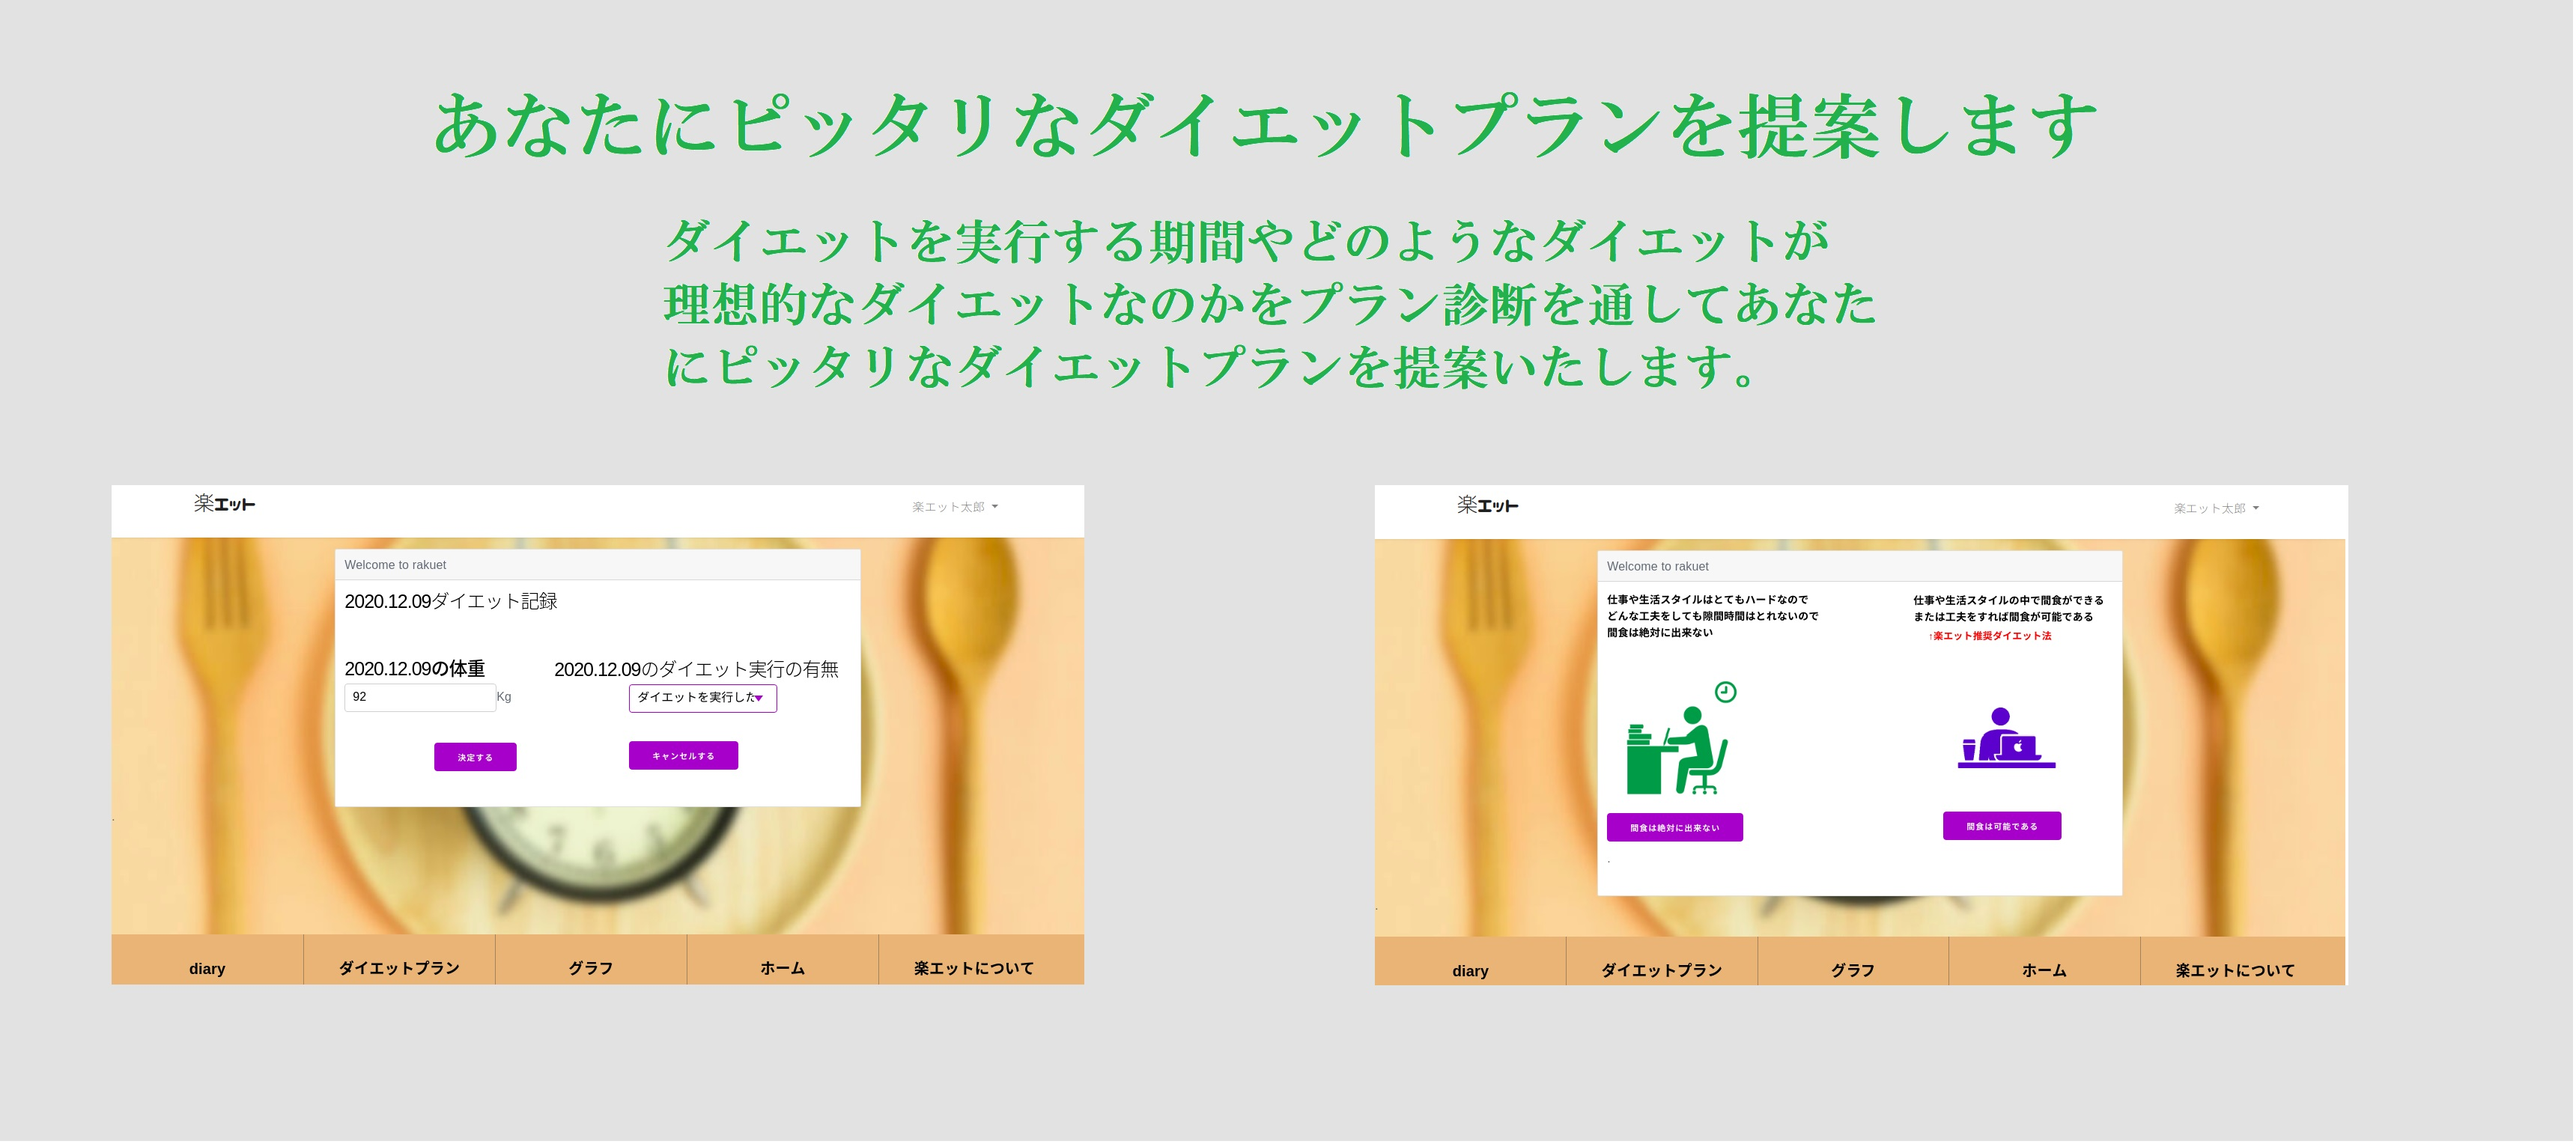
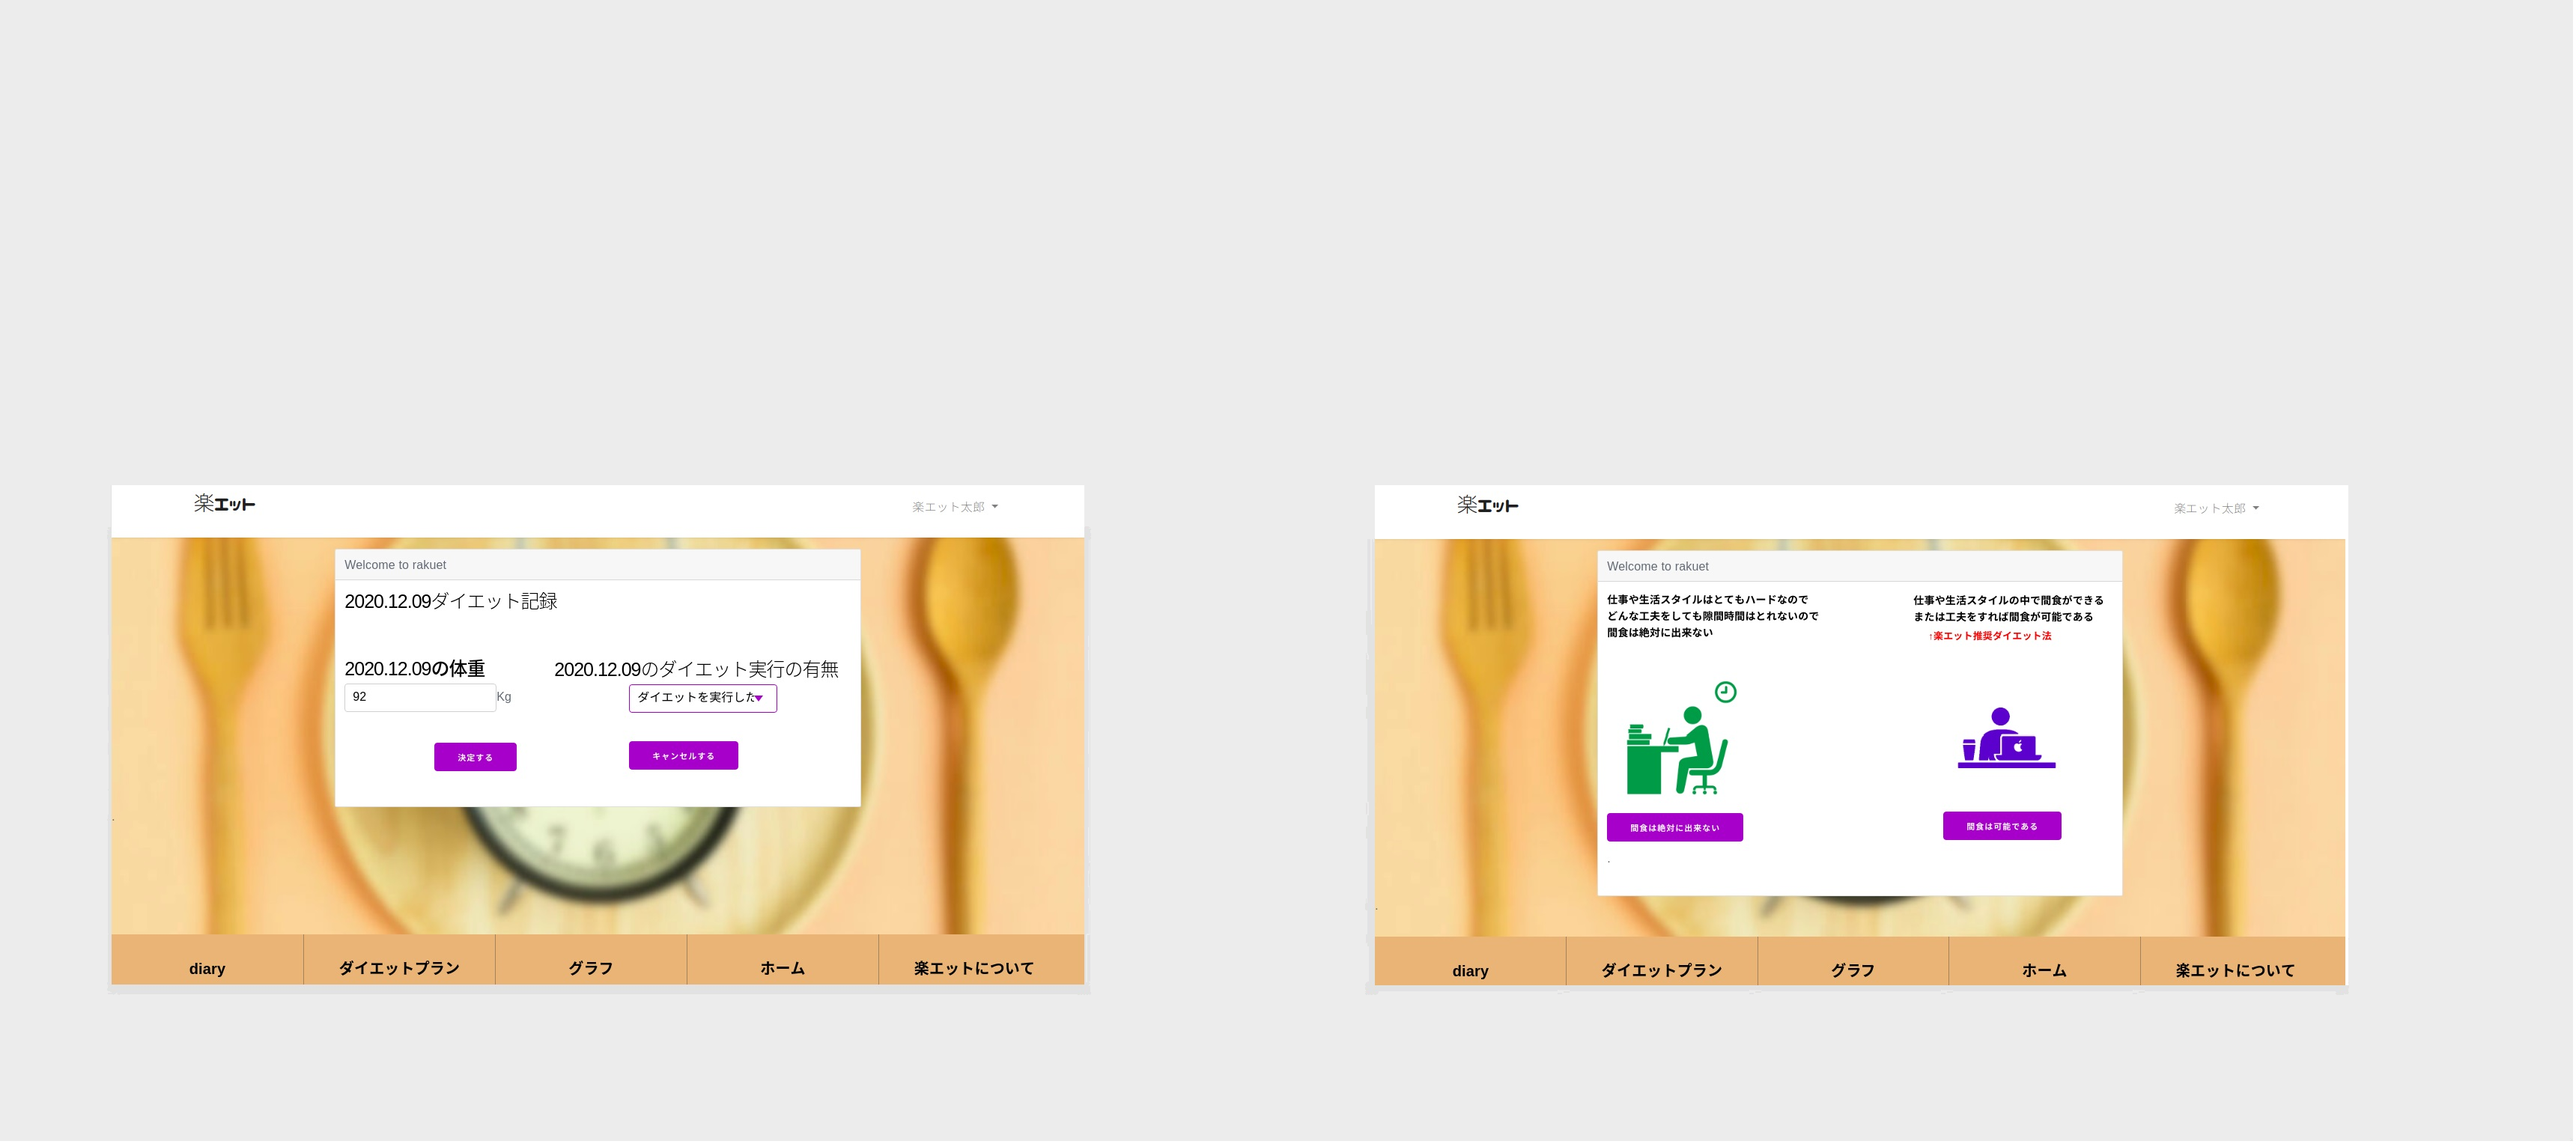
indexページ修正3

Changed region(s): [[0.2488, 0.1846, 0.7465, 0.3384], [0.1555, 0.0615, 0.8087, 0.1538]]

diff --git a/public/css/index.css b/public/css/index.css
@@ -146,7 +146,15 @@ font-weight:bold;
 font-size:40px;
 color:black;
 }
-
+div#content h1.dai3{
+z-index: 800;
+position:absolute;
+margin-top:980px;
+margin-left:-190px;
+font-weight:bold;
+font-size:30px;
+color:#66CC33;
+}
 
 div#content p.text1{
 z-index: 800;
@@ -158,6 +166,18 @@ font-size:20px;
 color:#99FF33;
 }
 div#content p.text1m{
+font-size:0px;
+}
+div#content p.text2{
+z-index: 800;
+position:absolute;
+margin-top:1070px;
+margin-left:-340px;
+font-weight:bold;
+font-size:20px;
+color:#99FF33;
+}
+div#content p.text2m{
 font-size:0px;
 }
 

diff --git a/resources/views/index/index.blade.php b/resources/views/index/index.blade.php
@@ -13,4 +13,7 @@
 <p class="text1m">身長、体重、年齢、性別の<br>四項目を入力するとその値<br>をもとにダイエットに必要な<br>消費カロリーやBMIなどを<br>割り出します</p>
 
 <h1 class="dai2">理想的なダイエットルーチンを築きましょう!!!</h1>
+<h1 class="dai3">あなたにピッタリなダイエットプランを提案します</h1>
+<p class="text2">ダイエットを実行する期間やどのようなダイエットが<br>理想的なダイエットプランなのかをプラン診断を通して<br>あなたにピッタリなダイエットプランを提案します</p>
+<p class="text2m"></p>
 @endsection
